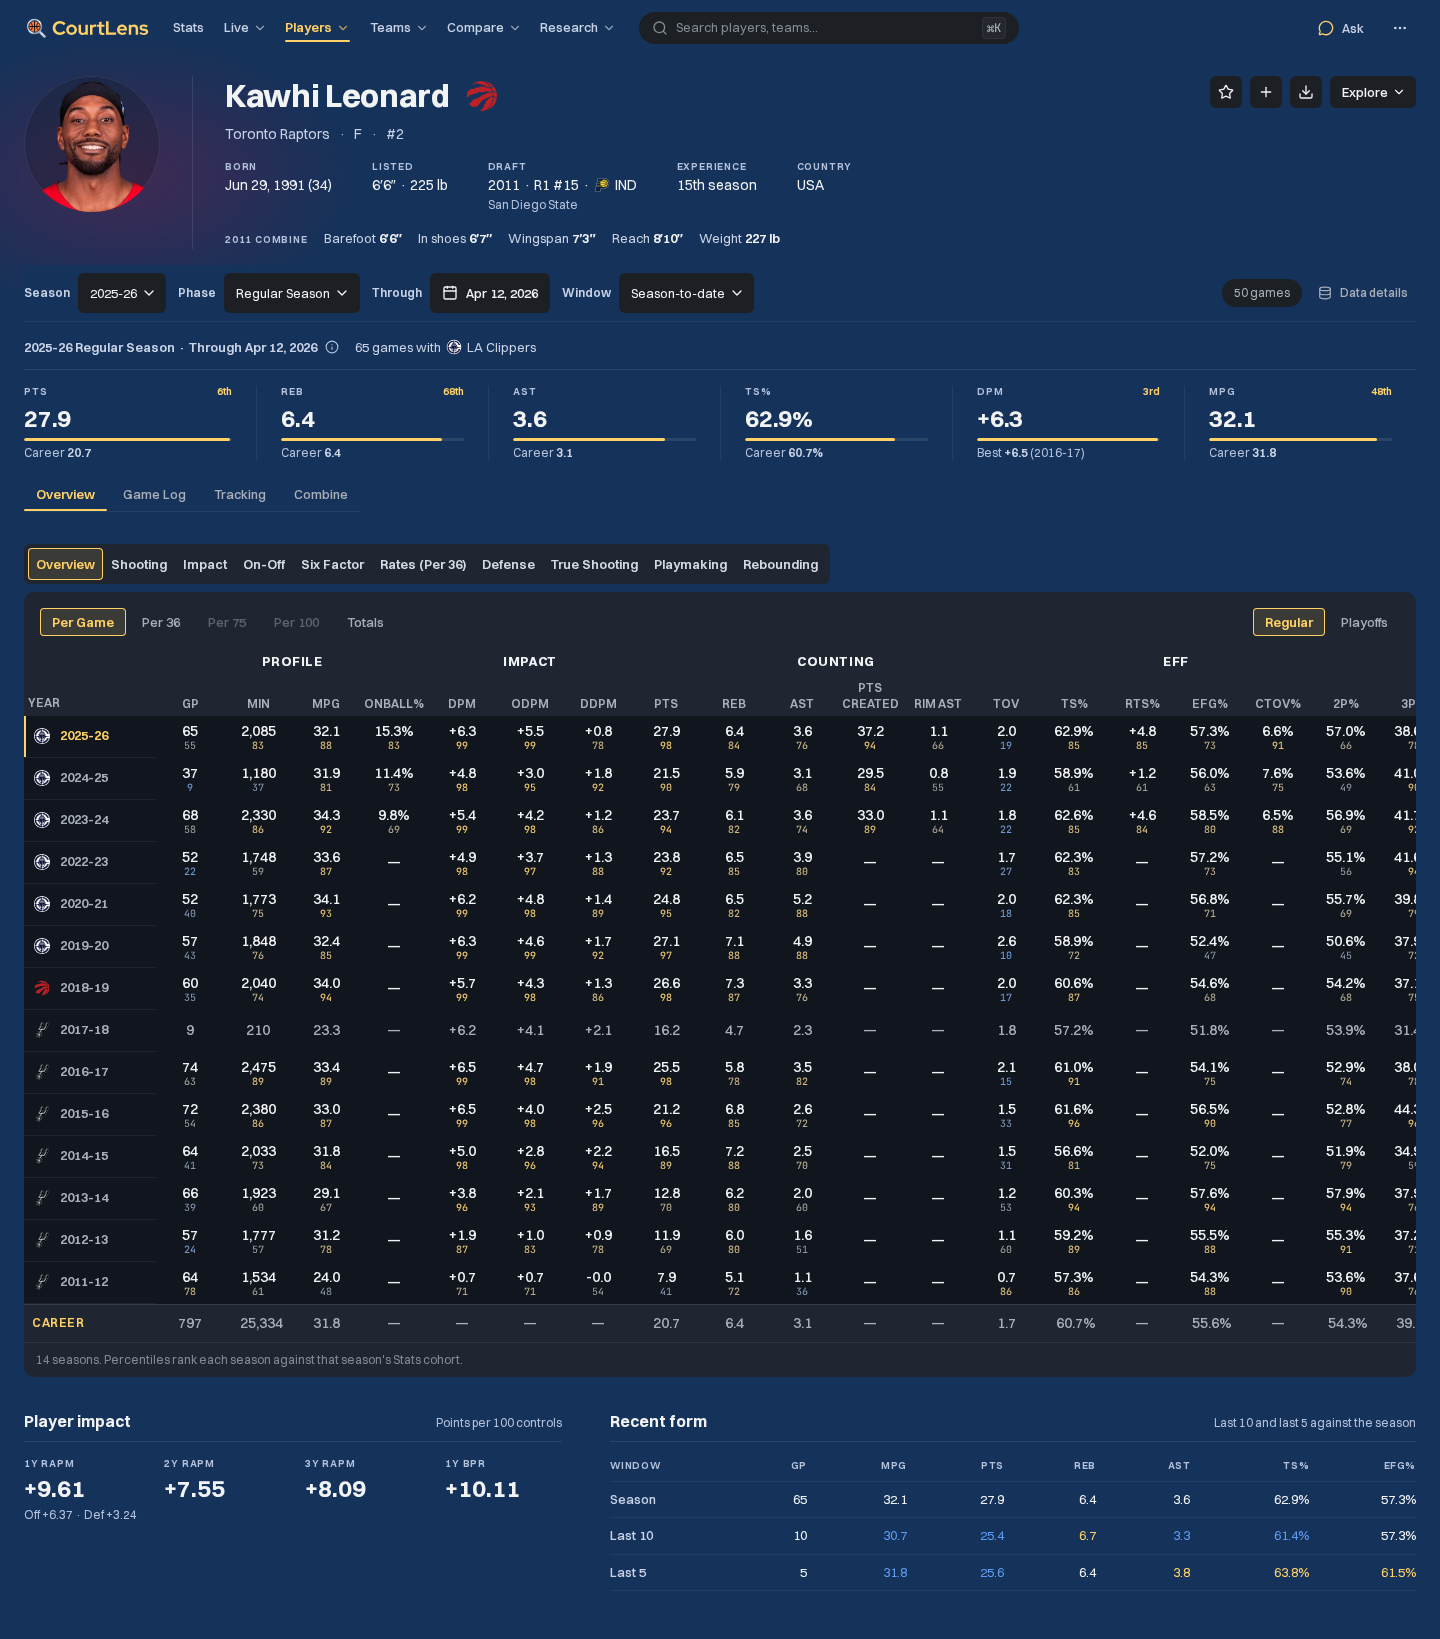
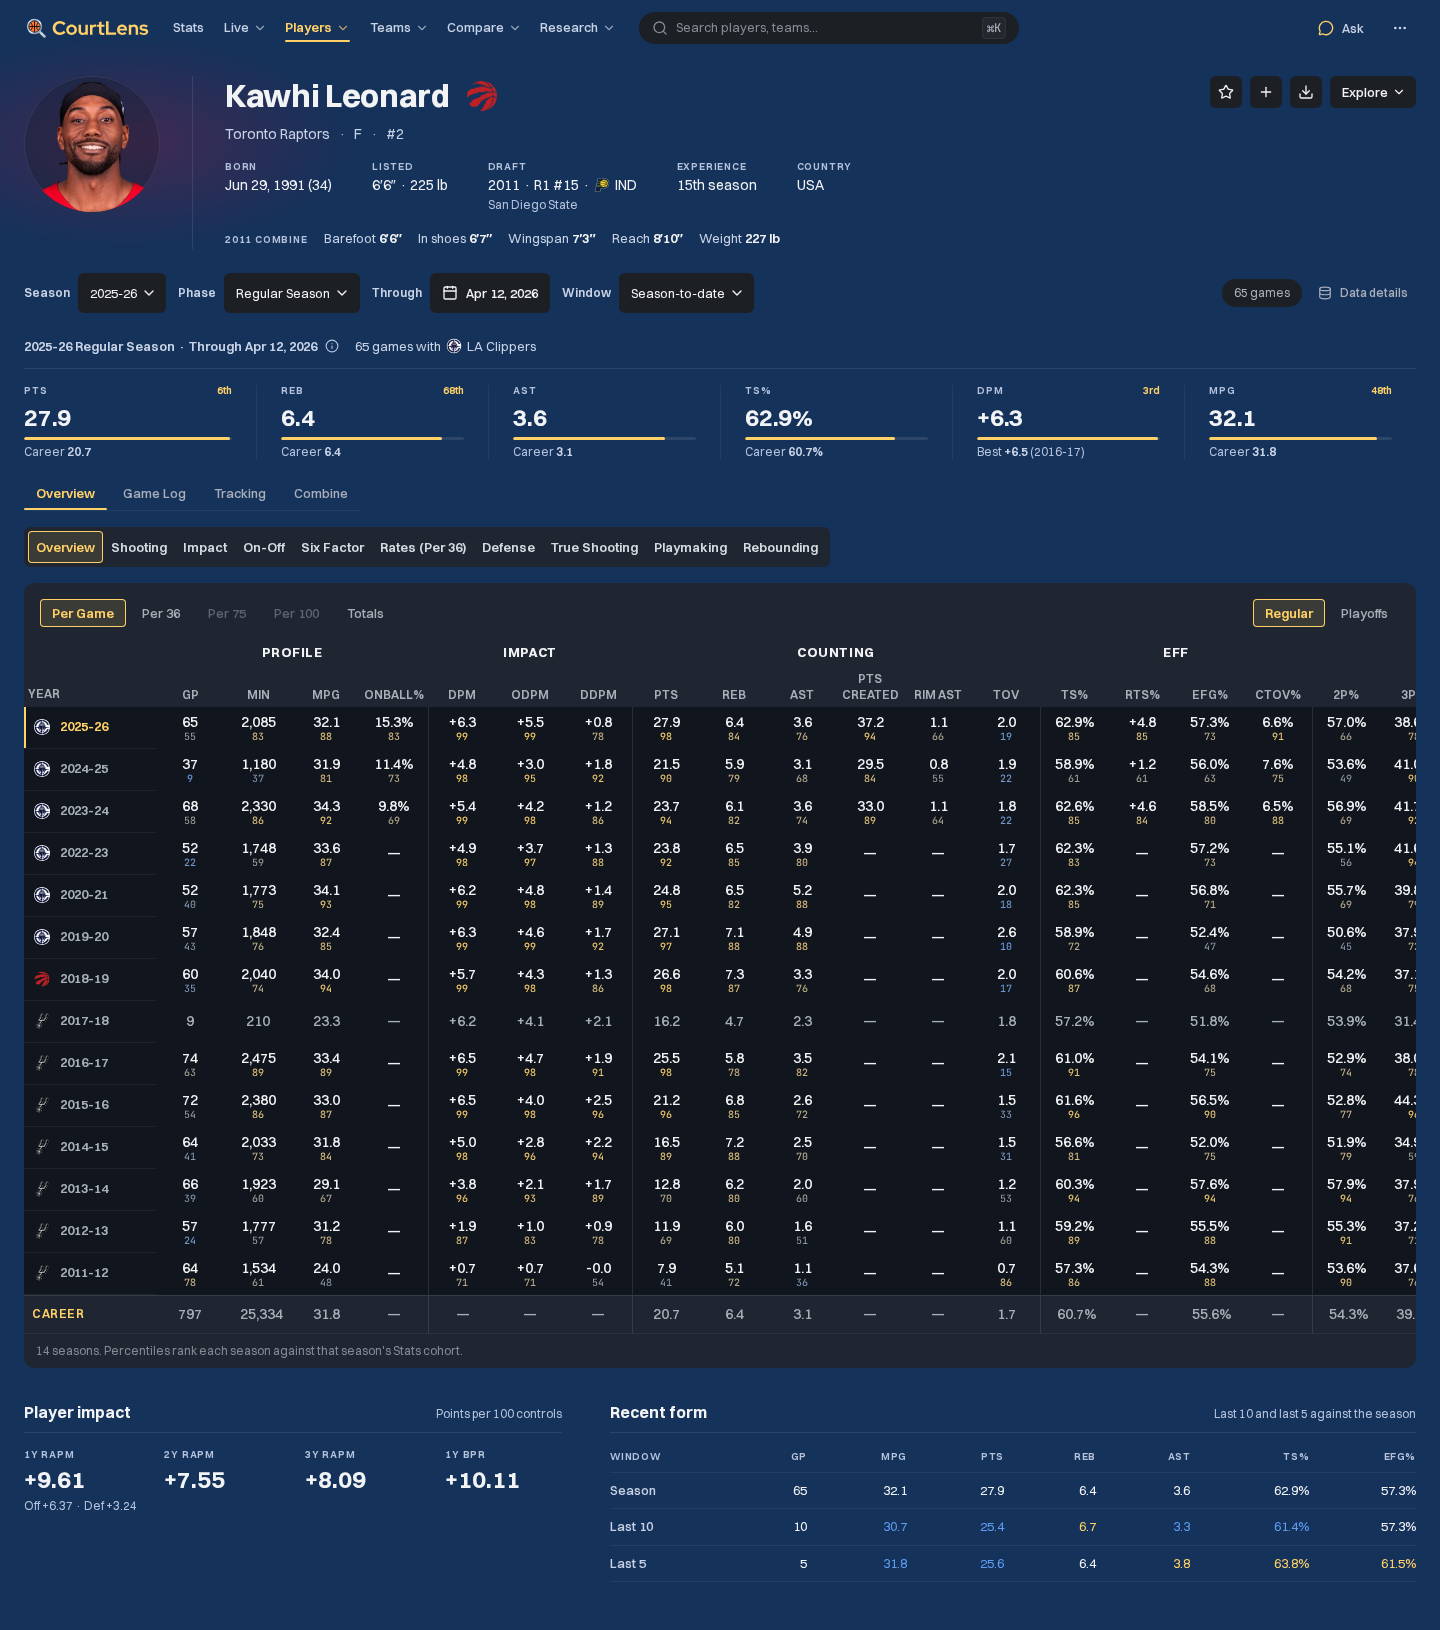
fix(align): player page review follow-ups (row 2, instructions 29-34)
- The team glow ends at the header, so the sticky filter bar no longer
  cuts it into a visible block.
- The career table fits its rows: its height rule now outranks Stats'
  viewport rule regardless of stylesheet order (opening from Stats).
- 16px above and below the view-tab console.
- Vertical hairlines between the career table's column groups.
- The scope badge counts the player's games in the window instead of the
  game log's 50-row page.
- No filter-bar rule above the season line on the player page.

diff --git a/dashboard/components/player-career-table.tsx b/dashboard/components/player-career-table.tsx
@@ -55,6 +55,9 @@ export function PlayerCareerTable({ playerId, catalog, season, phase, firstCover
     return { ...base, columns: columns.filter((column, index) => columns.findIndex(c => c.key === column.key) === index) };
   }, [presetId, countingMode]);
   const groups = useMemo(() => tableGroups(preset), [preset]);
+  // A hairline opens each column group after the first (Profile | Impact | Counting …).
+  const groupStarts = useMemo(() => new Set(groups.slice(1).map(group => group.start)), [groups]);
+  const divider = (index: number) => groupStarts.has(index) ? "group-start" : "";
   const requestKey = `${playerId}|${phase}|${catalog.release_id}`;
   const serverRows = initialCareer?.player_id === playerId && initialCareer.phase === phase
     && initialCareer.release_id === catalog.release_id ? initialCareer : null;
@@ -99,7 +102,7 @@ export function PlayerCareerTable({ playerId, catalog, season, phase, firstCover
     const column = preset.columns[index];
     const value = item ? item.metrics[column.key] ?? (column.key === "gp" ? item.games_played : column.key === "min" ? item.total_minutes : null) : null;
     const group = groups.findIndex(g => index >= g.start && index < g.start + g.colSpan) % 2;
-    return <td key={column.key} data-column={column.key} className={`stats-metric-cell stats-group-${group} ${column.num ? "num" : ""}`}>
+    return <td key={column.key} data-column={column.key} className={`stats-metric-cell stats-group-${group} ${column.num ? "num" : ""} ${divider(index)}`}>
       <PercentileCell variant="text" showPercentile={!career} value={item && value != null ? formatColumnValue(column, item) : null}
         percentile={career ? null : item?.table_percentiles?.[column.key] ?? null}
         qualified={item?.table_qualified === true && item?.impact_support?.[column.key]?.qualified !== false}
@@ -131,11 +134,11 @@ export function PlayerCareerTable({ playerId, catalog, season, phase, firstCover
             <thead>
               <tr className="stats-header-tier-1">
                 <th className="pinned-col pinned-col-year-group"><span className="sr-only">Season</span></th>
-                {groups.map((group, index) => <th key={`${group.label}-${index}`} colSpan={group.colSpan} scope="colgroup" className="stats-group-th">{group.label}</th>)}
+                {groups.map((group, index) => <th key={`${group.label}-${index}`} colSpan={group.colSpan} scope="colgroup" className={`stats-group-th ${index > 0 ? "group-start" : ""}`}>{group.label}</th>)}
               </tr>
               <tr className="stats-header-tier-2">
                 <th scope="col" className="pinned-col pinned-col-year">Year</th>
-                {preset.columns.map(column => <th key={column.key} scope="col" data-column={column.key} className={column.num ? "num" : ""} title={column.tooltip ?? column.label}>{column.label}</th>)}
+                {preset.columns.map((column, index) => <th key={column.key} scope="col" data-column={column.key} className={`${column.num ? "num" : ""} ${divider(index)}`} title={column.tooltip ?? column.label}>{column.label}</th>)}
               </tr>
             </thead>
             <tbody>

diff --git a/dashboard/components/player-career.css b/dashboard/components/player-career.css
@@ -1,10 +1,16 @@
 /* Player career table: the Stats table's look with seasons as rows (alignment row 2). */
 @layer pages {
-  .player-career.stats-workspace { min-height: 0; background: transparent; display: flex; flex-direction: column; gap: var(--space-2); }
+  /* The view tabs sit as far above the table as the profile tabs sit above them (row 2, 31). */
+  .player-career.stats-workspace { min-height: 0; background: transparent; display: flex; flex-direction: column; gap: var(--space-4); }
   .player-career .player-career-controls { display: flex; flex-wrap: wrap; gap: var(--space-2); }
   .player-career .stats-table-frame { --table-surface: var(--color-table-lift); --table-data: var(--color-table-well); }
   .player-career .stats-controls-row { display: flex; flex-wrap: wrap; align-items: center; justify-content: space-between; }
-  .player-career .player-career-scroll { --year-width: 132px; height: auto; max-height: min(70dvh, 760px); }
+  .player-career .player-career-scroll { --year-width: 132px; }
+  /* Outranks Stats' viewport-height rule whatever order the two stylesheets load in (client
+     navigation from Stats loads stats-explorer.css last), so the frame fits its rows. */
+  .player-career.stats-workspace .player-career-scroll.stats-scroll-region { height: auto; max-height: min(70dvh, 760px); }
+  /* Simple vertical rules between column groups (row 2, 32), in place of Stats' guide gutters. */
+  .player-career .player-career-table .group-start { border-left: 1px solid var(--color-hairline-strong); }
   .player-career .player-career-table {
     --table-min-width: calc(var(--year-width) + var(--career-columns, 20) * 68px);
     --table-width: min(100%, calc(var(--year-width) + var(--career-columns, 20) * 88px));

diff --git a/dashboard/components/player-bio-header.css b/dashboard/components/player-bio-header.css
@@ -10,7 +10,8 @@
   /* A faint wash of the current team's colour behind the photo, the header's one flourish. */
   .player-bio-main.has-glow::before {
     content: ""; position: absolute; pointer-events: none;
-    top: calc(var(--space-10) * -1); left: calc(var(--space-16) * -2); width: 460px; height: 280px;
+    /* Ends at the header's bottom edge, so it has faded out before the filter bar below. */
+    top: calc(var(--space-10) * -1); bottom: 0; left: calc(var(--space-16) * -2); width: 460px;
     background: radial-gradient(closest-side, color-mix(in srgb, var(--team-glow) 24%, transparent), transparent);
   }
   /* Positioned children paint above the glow, which comes first in the stacking order. */
@@ -77,8 +78,10 @@
   .similarity-target-lookup { width: 240px; min-width: 0; }
 }
 
-/* The name shares the foundation layer with PageHeader so these overrides apply. */
+/* These share the foundation layer with PageHeader and FilterBar so the overrides apply. */
 @layer foundation {
+  /* The season line below has its own rule; a second one above it would sandwich it (row 2, 34). */
+  .player-detail-container .ui-filter-bar { border-bottom: 0; }
   .player-bio-name .ui-page-header-title-row { min-height: 0; }
   .player-bio-name .ui-page-header-title { font-size: var(--text-3xl); line-height: var(--text-3xl-lh); letter-spacing: -0.01em; }
   @media (max-width: 767px) {

diff --git a/dashboard/app/players/[id]/page.tsx b/dashboard/app/players/[id]/page.tsx
@@ -128,7 +128,8 @@ export default async function PlayerPage({
           initialPhase={phase}
           initialBeforeDate={beforeDate}
           initialWindow={windowParam}
-          sampleSize={wbLoaded.log.games.length}
+          // Games the player appeared in for the chosen window, not the game log's 50-row page.
+          sampleSize={windowGames(wbLoaded.profile, windowParam)}
           lastIncludedDate={wbLoaded.profile.last_observed_date}
           detailRows={[{ label: "Player", value: id, mono: true }]}
         />}
@@ -158,6 +159,11 @@ export default async function PlayerPage({
   }
 
   return <PlayerError error={loadError} id={id} date={selected.date} />;
+}
+
+function windowGames(profile: PlayerProfile, window: string): number | undefined {
+  const summary = window === "last_10" ? profile.summaries.last_10 : window === "last_5" ? profile.summaries.last_5 : profile.summaries.season;
+  return summary?.gp ?? undefined;
 }
 
 /**

diff --git a/dashboard/components/workbench-player-profile.css b/dashboard/components/workbench-player-profile.css
@@ -21,6 +21,8 @@
 
   /* TabsContent wraps its children in one motion div; the section rhythm goes on that. */
   .player-tab-body > div { display: flex; flex-direction: column; gap: var(--space-8); }
+  /* The profile layout already spaces the tabs from the panel; no second gap on top of it. */
+  .player-tab-body { padding-block-start: 0; }
 
   /* Open sections (alignment row 2, 22): a heading, one hairline, content on the page ground. */
   .player-open-section { display: flex; flex-direction: column; gap: var(--space-4); min-width: 0; }

diff --git a/docs/alignment-catalog.md b/docs/alignment-catalog.md
@@ -513,6 +513,19 @@ Combine as open sections; career figure per tile (best season for DPM, hidden fo
 players); signed impact with Off/Def; Recent form tints at the shown precision; stat rows on the
 Stats percentile scale; "N games with <team>" when the season's team differs from the header.
 Honours row awaits the crawl below. [Redesign evidence](evidence/alignment/players/redesign/README.md).
+Follow-up instructions (owner, 2026-10-14, redesign review):
+29. [x] Remove the discoloured block under Season/Phase. — the team glow ran past the header and the
+    sticky filter bar cut it off in a straight edge; the glow now ends at the header's bottom.
+30. [x] The career table's height follows its rows. — Stats' viewport-height rule won when the page was
+    opened from Stats (stylesheet order); the career rule now outranks it.
+31. [x] Even spacing above and below the view-tab console. — 16px each (the tab panel's extra top padding
+    removed; the console sits 16px above the table).
+32. [x] Simple vertical divider lines between the career table's column groups (Profile, Impact,
+    Counting, Eff, Shooting, Other).
+33. [x] The "50 games" badge beside Data details. — it counted the game log's 50-row page; it now shows
+    the games the player appeared in for the chosen window (68 for SGA's 2025-26).
+34. [x] Remove the divider above the season line ("2025-26 Regular Season · Through …"). — the filter
+    bar's bottom rule is off on the player page.
 Proposed, awaiting the owner's go-ahead: a Basketball-Reference bio crawl (honours, per-season
 awards column with ★ All-Star seasons, birthplace, high school, shooting hand, NBA debut) and a
 "now TOR" chip on the latest completed season's Stats rows when the current listing differs.

diff --git a/docs/evidence/alignment/players/redesign/README.md b/docs/evidence/alignment/players/redesign/README.md
@@ -10,6 +10,7 @@ dev stack on published data.
 | [Kawhi Leonard, Overview 390](kawhi-overview-390.png) | Phone layout: photo beside the column, facts wrap, summary in two rows of three |
 | [Kawhi Leonard, Tracking 1440](kawhi-tracking-1440.png) | Stat rows with percentile bars on the Stats colour scale, four groups across |
 | [Kawhi Leonard, Combine 1440](kawhi-combine-1440.png) | Headline figures on the group grid; Measurements and Athletic testing rows |
+| [Shai Gilgeous-Alexander, Overview 1440](sga-overview-1440.png) | Follow-ups 29–34: glow ends inside the header, table fits its 8 seasons, even console spacing, group dividers, "68 games" badge, no rule above the season line |
 | [Dirk Nowitzki 2018-19, 1440](nowitzki-retired-1440.png) | No current listing: the header falls back to the season's team, no "games with" line |
 
 ## What changed
@@ -39,6 +40,9 @@ dev stack on published data.
   baselines were regenerated; no other baseline changed. Full suite 456 passed; the remaining
   failures are intermittent and outside this page (planner sign-in "Email" strict-mode check and the
   roster export in advanced-research; both pass when rerun alone).
+
+Follow-ups 29–34 (same day): browser set 132/132 after regenerating the two player profile
+baselines; Vitest 508/508; lint and typecheck clean.
 
 Not done, awaiting the owner: the Basketball-Reference bio crawl (honours, awards column,
 birthplace, high school, shooting hand, debut) and the "now TOR" chip on Stats rows.
